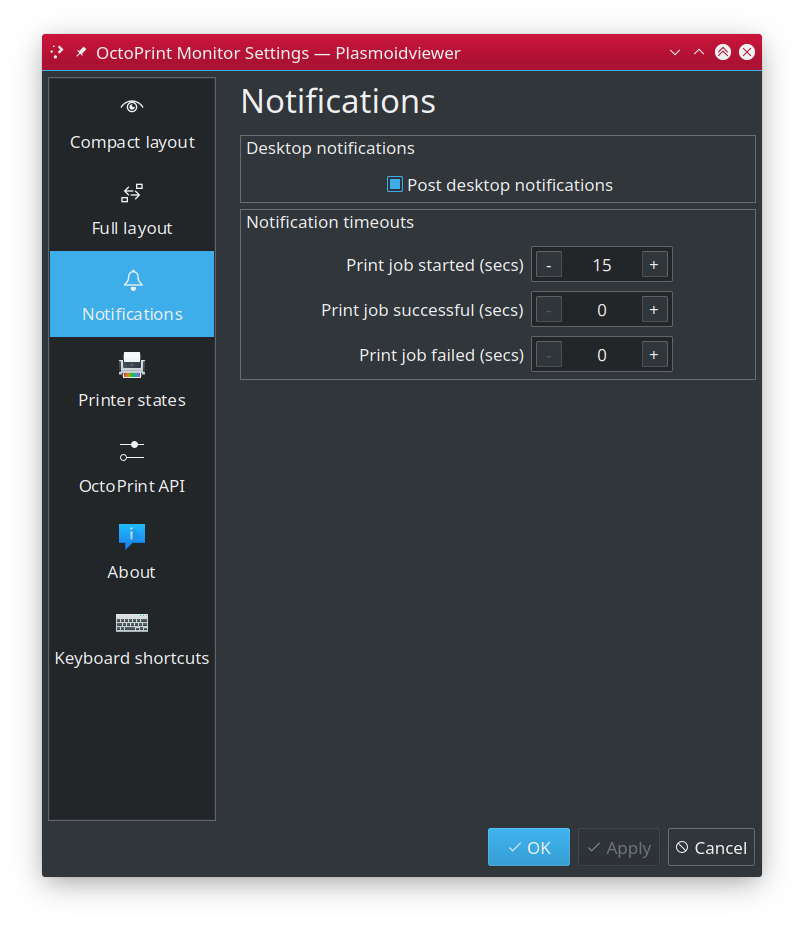
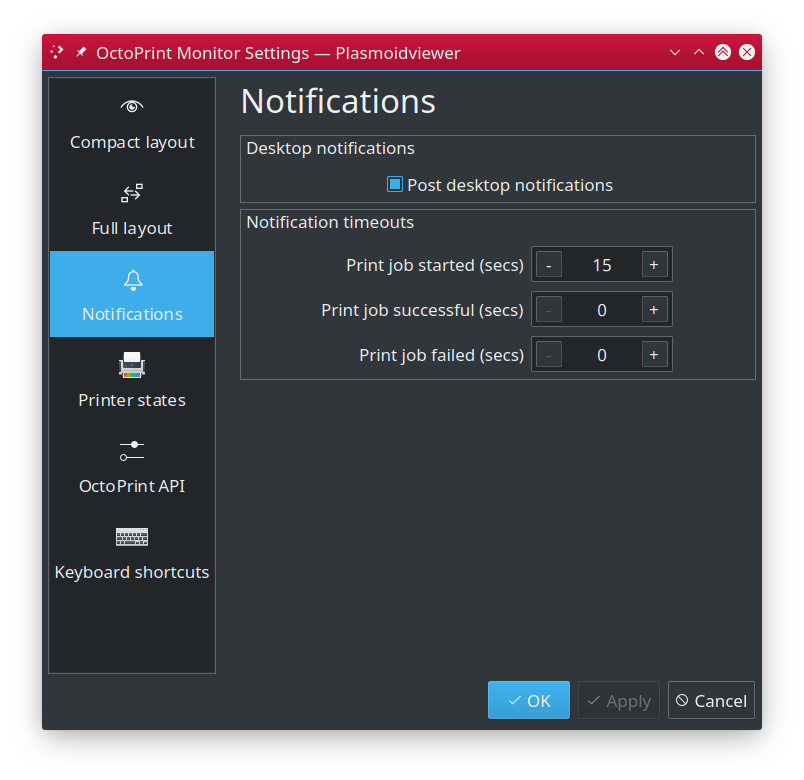
Added About dialog

Changed region(s): [[0.0311, 0.0308, 0.9639, 0.7385], [0.0311, 0.8615, 0.9639, 0.9538]]

diff --git a/src/contents/ui/main.qml b/src/contents/ui/main.qml
@@ -11,6 +11,7 @@
 
 import QtQuick 2.1
 import QtQuick.Layouts 1.1
+import QtQuick.Dialogs 1.3
 import Qt.labs.settings 1.0
 import org.kde.plasma.core 2.0 as PlasmaCore
 import org.kde.plasma.components 3.0 as PlasmaComponents
@@ -23,6 +24,16 @@ Item {
 
     Plasmoid.compactRepresentation: CompactRepresentation {}
     Plasmoid.fullRepresentation: FullRepresentation {}
+
+    // ------------------------------------------------------------------------------------------------------------------------
+
+    property string plasmoidTitle: ''
+    readonly property string plasmoidUrl: 'https://github.com/marcinorlowski/octoprint-monitor'
+
+    Component.onCompleted: {
+        plasmoidTitle = Plasmoid.title
+        plasmoid.setAction("showAboutDialog", i18n('About ') + plasmoidTitle + '…');
+    }
 
     // ------------------------------------------------------------------------------------------------------------------------
 
@@ -361,7 +372,7 @@ Item {
 
 //        console.debug(`post: ${post}, state: ${previous}=>${current}, timeout: ${expireTimeout}, body: "${body}"`)
         if (post) {
-            var title = Plasmoid.title
+            var title = plasmoidTitle
             // there's system timer shown (xx ago) shown for non expiring notifications
             if (expireTimeout == 0) {
                 title += ' ' + new Date().toLocaleString(Qt.locale(), Locale.ShortFormat)
@@ -681,10 +692,10 @@ Item {
                     var remoteVersion = xhr.responseText.match(/X\-KDE\-PluginInfo\-Version=(.*)/)[1]
                     if (remoteVersion != Version.version) {
                         notificationManager.post({
-                            'title': Plasmoid.title,
+                            'title': plasmoidTitle,
                             'icon': main.octoStateIcon,
                             'summary': `OctoPrint Monitor ${remoteVersion} available!`,
-                            'body': `You are currently using version ${Version.version}. See project page for more information (link in Configuration > About)`,
+                            'body': `You are currently using version ${Version.version}. See project page for more information.`,
                             'expireTimeout': 0,
                         });
                     }
@@ -693,5 +704,67 @@ Item {
             xhr.send()
         }
     }
+
+    // ------------------------------------------------------------------------------------------------------------------------
+
+    function action_showAboutDialog() {
+        aboutDialog.visible = true
+    }
+
+    Dialog {
+        id: aboutDialog
+        visible: false
+        title: i18n('Information')
+        standardButtons: StandardButton.Ok
+
+        width: 600
+        height: 500
+        Layout.minimumWidth: 600
+        Layout.minimumHeight: 500
+
+        onAccepted: visible = false
+
+        ColumnLayout {
+            anchors.centerIn: parent
+            Layout.fillWidth: true
+            Layout.fillHeight: true
+            ColumnLayout {
+                Layout.margins: 30
+
+                Image {
+                    Layout.alignment: Qt.AlignHCenter
+                    fillMode: Image.PreserveAspectFit
+                    source: plasmoid.file('', 'images/logo.png')
+                }
+
+                // metadata access is not available until very recent Plasma
+                // so as a work around we have it auto-generated as JS file
+                PlasmaComponents.Label {
+                    Layout.alignment: Qt.AlignHCenter
+                    textFormat: Text.PlainText
+                    font.bold: true
+                    font.pixelSize: Qt.application.font.pixelSize * 1.5
+                    text: `${plasmoidTitle} v${Version.version}`
+                }
+
+                PlasmaComponents.Label {
+                    Layout.alignment: Qt.AlignHCenter
+                    textFormat: Text.RichText
+                    text: `&copy;2020 by Marcin Orlowski`
+                }
+
+                PlasmaComponents.Label {
+                    Layout.alignment: Qt.AlignHCenter
+                    textFormat: Text.RichText
+                    text: `<a href="${plasmoidUrl}">${plasmoidUrl}</a>`
+                    onLinkActivated: {
+                        Qt.openUrlExternally(link);
+                    }
+                }
+            }
+        }
+    } // Dialog
+
+    // ------------------------------------------------------------------------------------------------------------------------
 
 }

diff --git a/src/contents/ui/FullRepresentation.qml b/src/contents/ui/FullRepresentation.qml
@@ -287,7 +287,7 @@ GridLayout {
         PlasmaComponents.Button {
             id: buttonStartPause
             text: i18n("Pause")
-            implicitWidth: minimumWidth
+//            implicitWidth: minimumWidth
             icon.name: "media-playback-pause"
             onClicked: {
                 if (cameraViewTimer.running) {
@@ -306,7 +306,7 @@ GridLayout {
 
         PlasmaComponents.Button {
             text: "Stop"
-            implicitWidth: minimumWidth
+//            implicitWidth: minimumWidth
             icon.name: "media-playback-stop"
             onClicked: {
                 cameraViewTimer.stop()

diff --git a/src/contents/config/config.qml b/src/contents/config/config.qml
@@ -38,9 +38,4 @@ ConfigModel {
         icon: "configure"
         source: "configApi.qml"
     }
-    ConfigCategory {
-        name: i18n("About")
-        icon: "dialog-information"
-        source: "configAbout.qml"
-    }
 }
